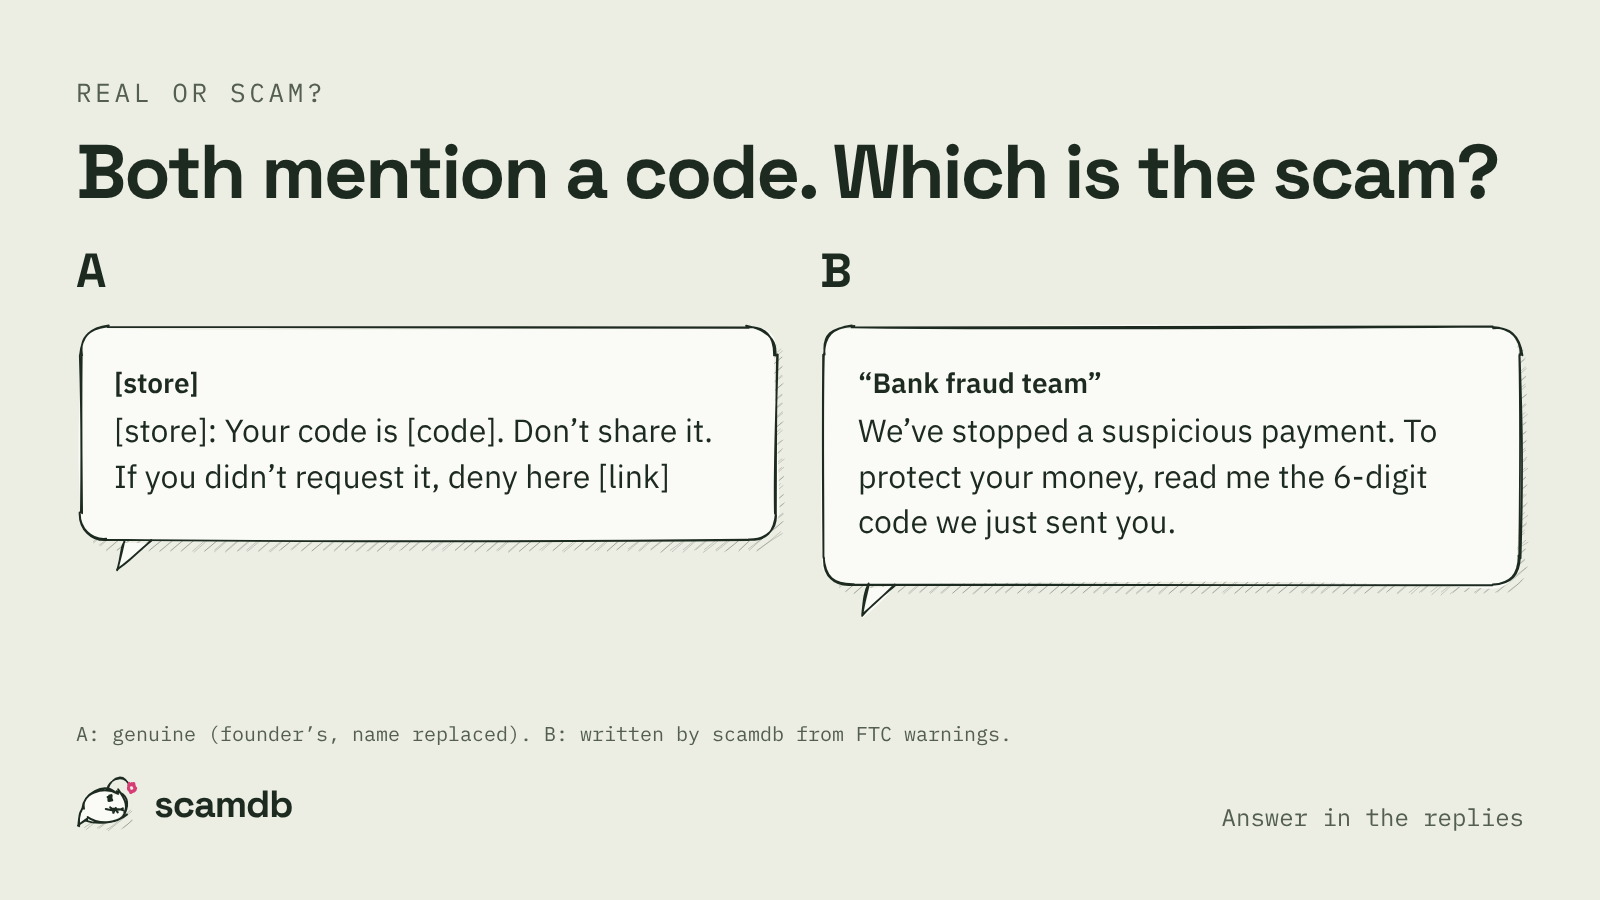
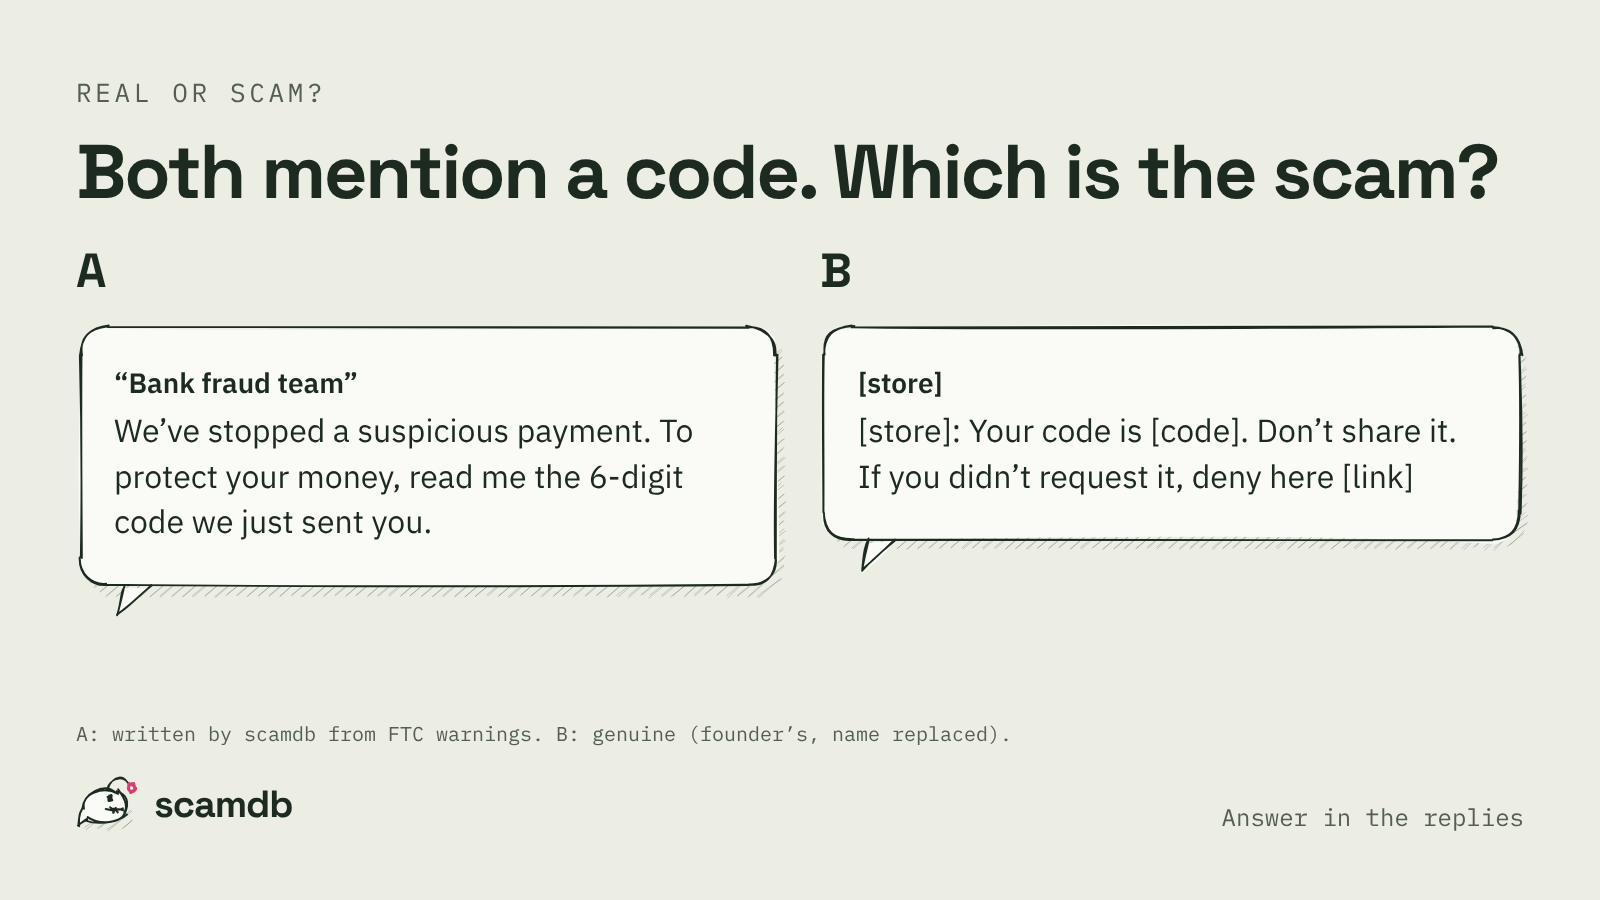
marketing: swap A and B in the Dec 9 and Dec 23 quizzes; W48 Dispatch drafts; sender uses curl
Claude-Session: https://claude.ai/code/session_018T2J1HvuwaiU8E1hmfTdcN

diff --git a/marketing/posts/2026-12-W52/w52-wed-real-or-scam-verification/post.md b/marketing/posts/2026-12-W52/w52-wed-real-or-scam-verification/post.md
@@ -10,7 +10,7 @@
 ```ig
 Real or scam? You just got a verification code, and then a second message. Guess, then swipe.
 
-A is a genuine text our founder received (app name removed). B is an example we wrote, based on warnings about account takeovers on WhatsApp and other apps.
+A is an example we wrote, based on warnings about account takeovers on WhatsApp and other apps. B is a genuine text our founder received (app name removed).
 
 The trap: the code was for your account. Someone typed in your number and is waiting for you to hand it over.
 
@@ -21,8 +21,8 @@ Got one like this, scam or genuine? Send it to us at scamdb.dev/report (link in 
 
 **Alt text**
 
-1. You just got a code. Which message is the scam? A, from [app]: “[code] is your [app] verification code. Don’t share your code with anyone.” B, from A contact: “Hi dear, sorry to bother you, I was adding a new number to my phone and a 6-digit code went to your number by mistake. Please write me that code, it’s urgent, otherwise my account gets blocked.” A: a genuine message shared by scamdb’s founder, app name replaced. B: written by scamdb from news reports (Azerbaijan, Oct 2026).
-2. The answer, with a pink stamp “B · SCAM”: B. The code was for your account. Someone tried to log in to your account with your number. Send them the code and the account is theirs. Never forward a code. Delete it, and turn on two-step verification.
+1. You just got a code. Which message is the scam? A, from A contact: “Hi dear, sorry to bother you, I was adding a new number to my phone and a 6-digit code went to your number by mistake. Please write me that code, it’s urgent, otherwise my account gets blocked.” B, from [app]: “[code] is your [app] verification code. Don’t share your code with anyone.” A: written by scamdb from news reports (Azerbaijan, Oct 2026). B: a genuine message shared by scamdb’s founder, app name replaced.
+2. The answer, with a pink stamp “A · SCAM”: A. The code was for your account. Someone tried to log in to your account with your number. Send them the code and the account is theirs. Never forward a code. Delete it, and turn on two-step verification.
 
 ## X
 
@@ -32,12 +32,12 @@ Real or scam? You get a verification code, then: “Sorry, a code went to your n
 A or B? Answer in the replies.
 ```
 
-**Alt text (03-x.png):** You just got a code. Which message is the scam? A, from [app]: “[code] is your [app] verification code. Don’t share your code with anyone.” B, from A contact: “Sorry to bother you, a 6-digit code went to your number by mistake. Please write me that code, it’s urgent.” A: genuine (founder’s, name replaced). B: written by scamdb from published warnings.
+**Alt text (03-x.png):** You just got a code. Which message is the scam? A, from A contact: “Sorry to bother you, a 6-digit code went to your number by mistake. Please write me that code, it’s urgent.” B, from [app]: “[code] is your [app] verification code. Don’t share your code with anyone.” A: written by scamdb from published warnings. B: genuine (founder’s, name replaced).
 
 **Reply with the answer (a few hours later):**
 
 ```x
-B.
+A.
 
 The code was for YOUR account. Someone typed in your number and wants you to hand it over.
 

diff --git a/marketing/posts/2026-12-W50/w50-wed-real-or-scam-code/post.md b/marketing/posts/2026-12-W50/w50-wed-real-or-scam-code/post.md
@@ -10,7 +10,7 @@
 ```ig
 Real or scam? Both are about a code. Guess, then swipe.
 
-A is a genuine text our founder received (store name removed). B is an example we wrote, based on FTC warnings about fake bank “fraud teams”.
+A is an example we wrote, based on FTC warnings about fake bank “fraud teams”. B is a genuine text our founder received (store name removed).
 
 Rule of thumb: a real code message tells you not to share it. A scammer asks you to read it out.
 
@@ -21,8 +21,8 @@ Got one like this, scam or genuine? Send it to us at scamdb.dev/report (link in 
 
 **Alt text**
 
-1. Both mention a code. Which is the scam? A, from [store]: “[store]: Your code is [code]. Don’t share it. If you didn’t request it, deny here [link]” B, from “Your bank’s fraud team”: “This is your bank’s fraud team. We’ve stopped a suspicious payment of $1,480. To protect your money, read me the 6-digit code we just sent you. Please don’t hang up.” A: a genuine message shared by scamdb’s founder, store name replaced. B: written by scamdb from FTC warnings.
-2. The answer, with a pink stamp “B · SCAM”: B. Real codes say “don’t share”. Scammers say “read it to me”. A code is a key to your account. Nobody legit needs it read back. “Don’t hang up” is pressure, not protection. Hang up, and call the number on your card.
+1. Both mention a code. Which is the scam? A, from “Your bank’s fraud team”: “This is your bank’s fraud team. We’ve stopped a suspicious payment of $1,480. To protect your money, read me the 6-digit code we just sent you. Please don’t hang up.” B, from [store]: “[store]: Your code is [code]. Don’t share it. If you didn’t request it, deny here [link]” A: written by scamdb from FTC warnings. B: a genuine message shared by scamdb’s founder, store name replaced.
+2. The answer, with a pink stamp “A · SCAM”: A. Real codes say “don’t share”. Scammers say “read it to me”. A code is a key to your account. Nobody legit needs it read back. “Don’t hang up” is pressure, not protection. Hang up, and call the number on your card.
 
 ## X
 
@@ -32,12 +32,12 @@ Real or scam? Two messages about a code. One is genuine, one is how a scam call 
 A or B? Answer in the replies.
 ```
 
-**Alt text (03-x.png):** Both mention a code. Which is the scam? A, from [store]: “[store]: Your code is [code]. Don’t share it. If you didn’t request it, deny here [link]” B, from “Bank fraud team”: “We’ve stopped a suspicious payment. To protect your money, read me the 6-digit code we just sent you.” A: genuine (founder’s, name replaced). B: written by scamdb from FTC warnings.
+**Alt text (03-x.png):** Both mention a code. Which is the scam? A, from “Bank fraud team”: “We’ve stopped a suspicious payment. To protect your money, read me the 6-digit code we just sent you.” B, from [store]: “[store]: Your code is [code]. Don’t share it. If you didn’t request it, deny here [link]” A: written by scamdb from FTC warnings. B: genuine (founder’s, name replaced).
 
 **Reply with the answer (a few hours later):**
 
 ```x
-B.
+A.
 
 Real code messages say “don’t share it”. Scammers say “read it to me”.
 

diff --git a/marketing/posts/2026-12-W51/w51-mon-romance/post.md b/marketing/posts/2026-12-W51/w51-mon-romance/post.md
@@ -22,7 +22,7 @@ Share this with someone who’s dating online.
 
 **Alt text**
 
-1. Hand-drawn illustration. Scam of the week · US · dating apps, social media. Headline: “The online love who needs money”. The holidays are lonely for many people. Scammers know it.
+1. Hand-drawn illustration. Scam of the week · US · online. Headline: “The online love who needs money”. The holidays are lonely for many people. Scammers know it.
 2. An example written by scamdb, from “My love”: “Good morning my love. I can’t stop thinking about you. As soon as my contract on the oil rig ends we will finally be together. Baby, my account is frozen and I need help with the customs fee to send my things home. I will pay you back as soon as I land.”. Warning signs: A reason they can never meet; A money problem only you can fix; A promise to pay back.
 3. How it goes, in four hand-drawn steps (see the catalogue entry).
 4. What to do: Never send money or gifts to someone you haven’t met in person. Never let an online friend steer your investments. Reverse-image search their photos. Talk to someone you trust. It happens to smart, careful people. Report the profile, and call your bank.

diff --git a/marketing/publish-week-52.md b/marketing/publish-week-52.md
@@ -79,7 +79,7 @@ Got one, scam or genuine? Send it to us (link in bio).
 **23:30** (17:30 ET) · **X post, the quiz answer** (its own post, no image)
 
 ```x
-Today’s Real or scam? The answer: B.
+Today’s Real or scam? The answer: A.
 
 The code was for YOUR account. Someone typed in your number and wants you to hand it over.
 

diff --git a/marketing/publish-week-50.md b/marketing/publish-week-50.md
@@ -81,7 +81,7 @@ Got one, scam or genuine? Send it to us (link in bio).
 **23:30** (17:30 ET) · **X post, the quiz answer** (its own post, no image)
 
 ```x
-Today’s Real or scam? The answer: B.
+Today’s Real or scam? The answer: A.
 
 Real code messages say “don’t share it”. Scammers say “read it to me”.
 
